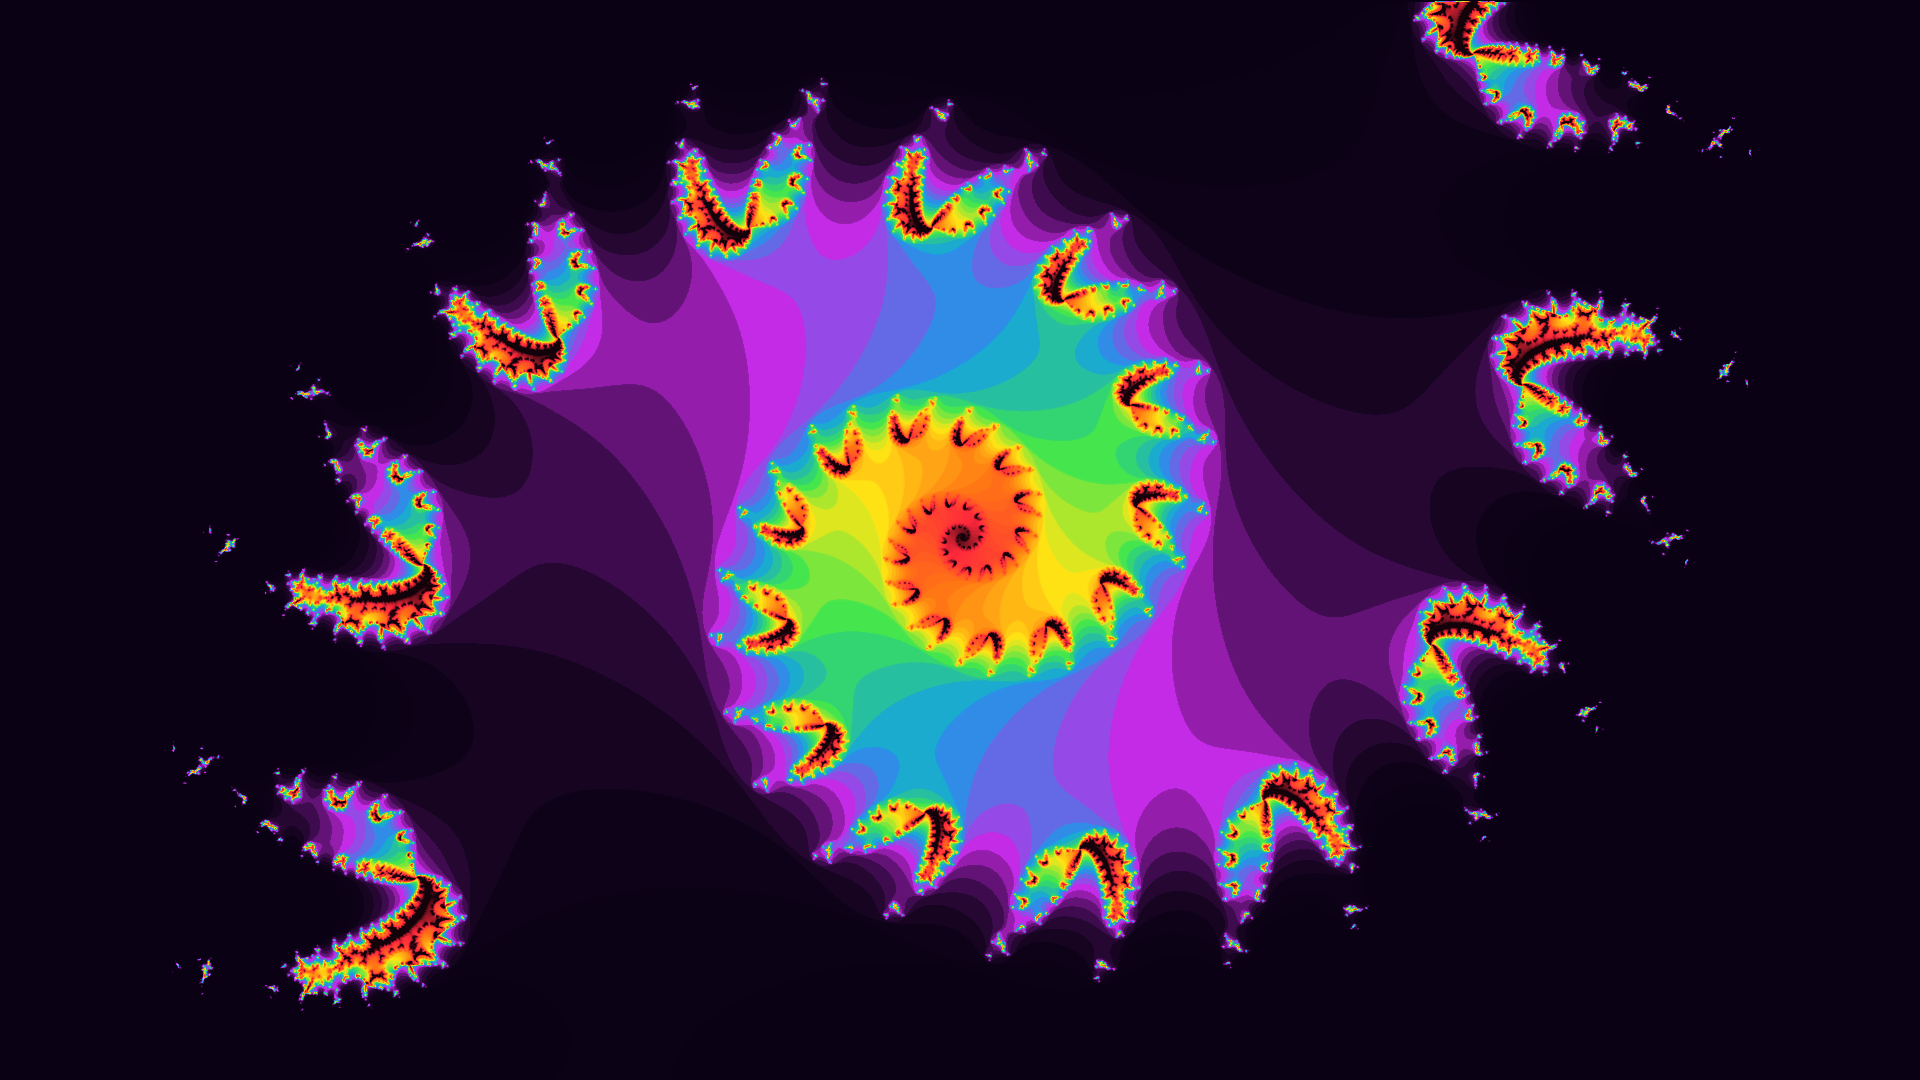
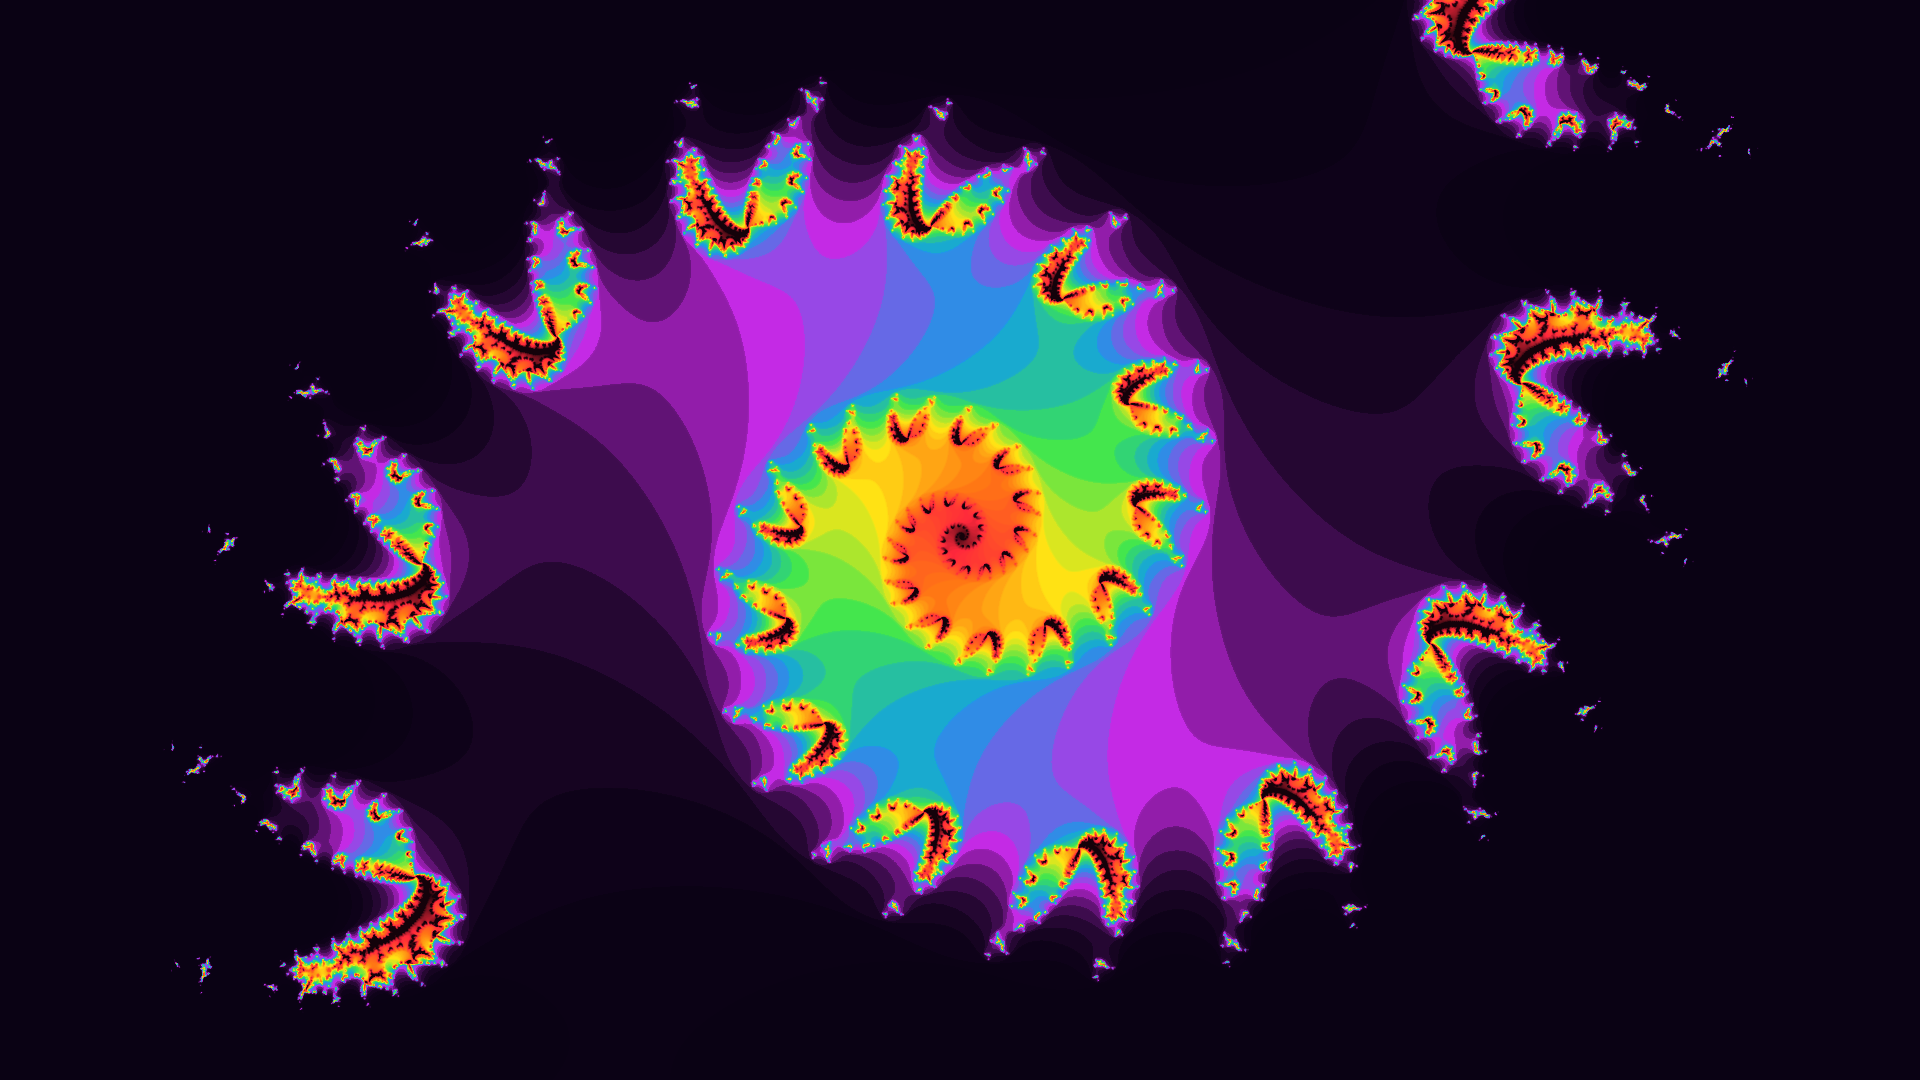
Make chunk processing parallel and re-render everything :D

diff --git a/src/main.rs b/src/main.rs
@@ -3,12 +3,12 @@ mod complex;
 mod error;
 mod fractal;
 mod mat;
+mod path;
 mod sampling;
 
 use std::{
     array, env, fs,
     io::Write,
-    path::PathBuf,
     sync::{atomic, mpsc},
     time::Instant,
 };
@@ -28,6 +28,7 @@ use crate::{
     error::{ErrorKind, Result},
     fractal::Fractal,
     mat::{Mat2D, Mat3D},
+    path::Path,
     sampling::{
         generate_sampling_points, map_points_with_offsets, preview_sampling_points, Sampling,
     },
@@ -67,8 +68,10 @@ fn main() -> Result<()> {
 
     match args.len() {
         3 => {
+            let (param_file_path, output_image_path) = (Path::new(&args[1]), Path::new(&args[2]));
+
             let params = ron::from_str::<FractalParams>(
-                &fs::read_to_string(&args[1]).map_err(ErrorKind::ReadParameterFile)?,
+                &fs::read_to_string(&param_file_path).map_err(ErrorKind::ReadParameterFile)?,
             )
             .map_err(ErrorKind::DecodeParameterFile)?;
 
@@ -121,7 +124,7 @@ fn main() -> Result<()> {
 
             // Get chunks
 
-            const CHUNK_SIZE: usize = 384;
+            const CHUNK_SIZE: usize = 512;
             const AVG_KERNEL_SIZE: usize = 1;
             const AVG_KERNEL_SIZE_I: isize = AVG_KERNEL_SIZE as isize;
 
@@ -283,8 +286,11 @@ fn main() -> Result<()> {
                         }
                     }
 
-                    for j in 0..chunk_height {
-                        for i in 0..chunk_width {
+                    let (tx, rx) = mpsc::channel();
+                    (0..chunk_height)
+                        .flat_map(|j| (0..chunk_width).map(move |i| (i, j)))
+                        .par_bridge()
+                        .for_each_with(tx, |s, (i, j)| {
                             let mut weighted_sum = 0.;
                             let mut weight_total = 0.;
 
@@ -343,17 +349,19 @@ fn main() -> Result<()> {
                                 }
                             }
 
-                            raw_image
-                                .set(
-                                    (pi + i, pj + j),
-                                    if is_empty {
-                                        max_iter as f64
-                                    } else {
-                                        weighted_sum / weight_total
-                                    },
-                                )
-                                .unwrap();
-                        }
+                            s.send((
+                                (pi + i, pj + j),
+                                if is_empty {
+                                    max_iter as f64
+                                } else {
+                                    weighted_sum / weight_total
+                                },
+                            ))
+                            .unwrap();
+                        });
+
+                    for (index, v) in rx {
+                        raw_image.set(index, v).unwrap();
                     }
                 }
             }
@@ -504,11 +512,11 @@ fn main() -> Result<()> {
                 }
             }
 
-            let path = PathBuf::from(&args[2]);
+            output_image
+                .save(&output_image_path)
+                .map_err(ErrorKind::SaveImage)?;
 
-            output_image.save(&path).map_err(ErrorKind::SaveImage)?;
-
-            let image_size = fs::metadata(&path).unwrap().len();
+            let image_size = fs::metadata(&output_image_path).unwrap().len();
             println!(
                 " output image: {}x{} - {} {}",
                 img_width,
@@ -520,8 +528,8 @@ fn main() -> Result<()> {
                 } else {
                     format!("{}b", image_size)
                 },
-                if let Some(ext) = path.extension() {
-                    format!("- {} ", ext.to_str().unwrap())
+                if let Some(ext) = output_image_path.extension() {
+                    format!("- {} ", ext)
                 } else {
                     "".to_string()
                 }

diff --git a/src/path.rs b/src/path.rs
@@ -1,0 +1,39 @@
+pub struct Path {
+    s: String,
+}
+
+impl Path {
+    pub fn new(s: &str) -> Path {
+        Path { s: s.to_string() }
+    }
+
+    pub fn extension(&self) -> Option<&str> {
+        self.s
+            .rfind('.')
+            .take_if(|pos| self.s[*pos..].contains(['/', '\\']))
+            .map(|pos| &self.s[pos + 1..])
+    }
+
+    // pub fn replace_extension(&self, new_extension: &str) -> Path {
+    //     Path {
+    //         s: match self.s.rfind('.') {
+    //             Some(pos) => {
+    //                 if self.s[pos..].contains('/') || self.s[pos..].contains('\\') {
+    //                     format!("{}.{}", self.s, new_extension)
+    //                 } else {
+    //                     format!("{}{}", &self.s[..pos], new_extension)
+    //                 }
+    //             }
+    //             None => {
+    //                 format!("{}.{}", self.s, new_extension)
+    //             }
+    //         },
+    //     }
+    // }
+}
+
+impl AsRef<std::path::Path> for Path {
+    fn as_ref(&self) -> &std::path::Path {
+        self.s.as_ref()
+    }
+}

diff --git a/README.md b/README.md
@@ -212,6 +212,7 @@ I think this one looks a bit like Mandelbrot ?
 
 # Ideas
 
+- allow rendering animations by adding frames/transitions settings
 - use wgpu to perform calculations ? see [this](https://github.com/gfx-rs/wgpu/blob/trunk/examples%2Fsrc%2Fhello_compute%2Fmod.rs) and especially [this](https://github.com/gfx-rs/wgpu/blob/trunk/examples%2Fsrc%2Frepeated_compute%2Fmod.rs)
 - use opencl to perform calculations ? see [this](https://docs.rs/opencl3/latest/opencl3/)
 
